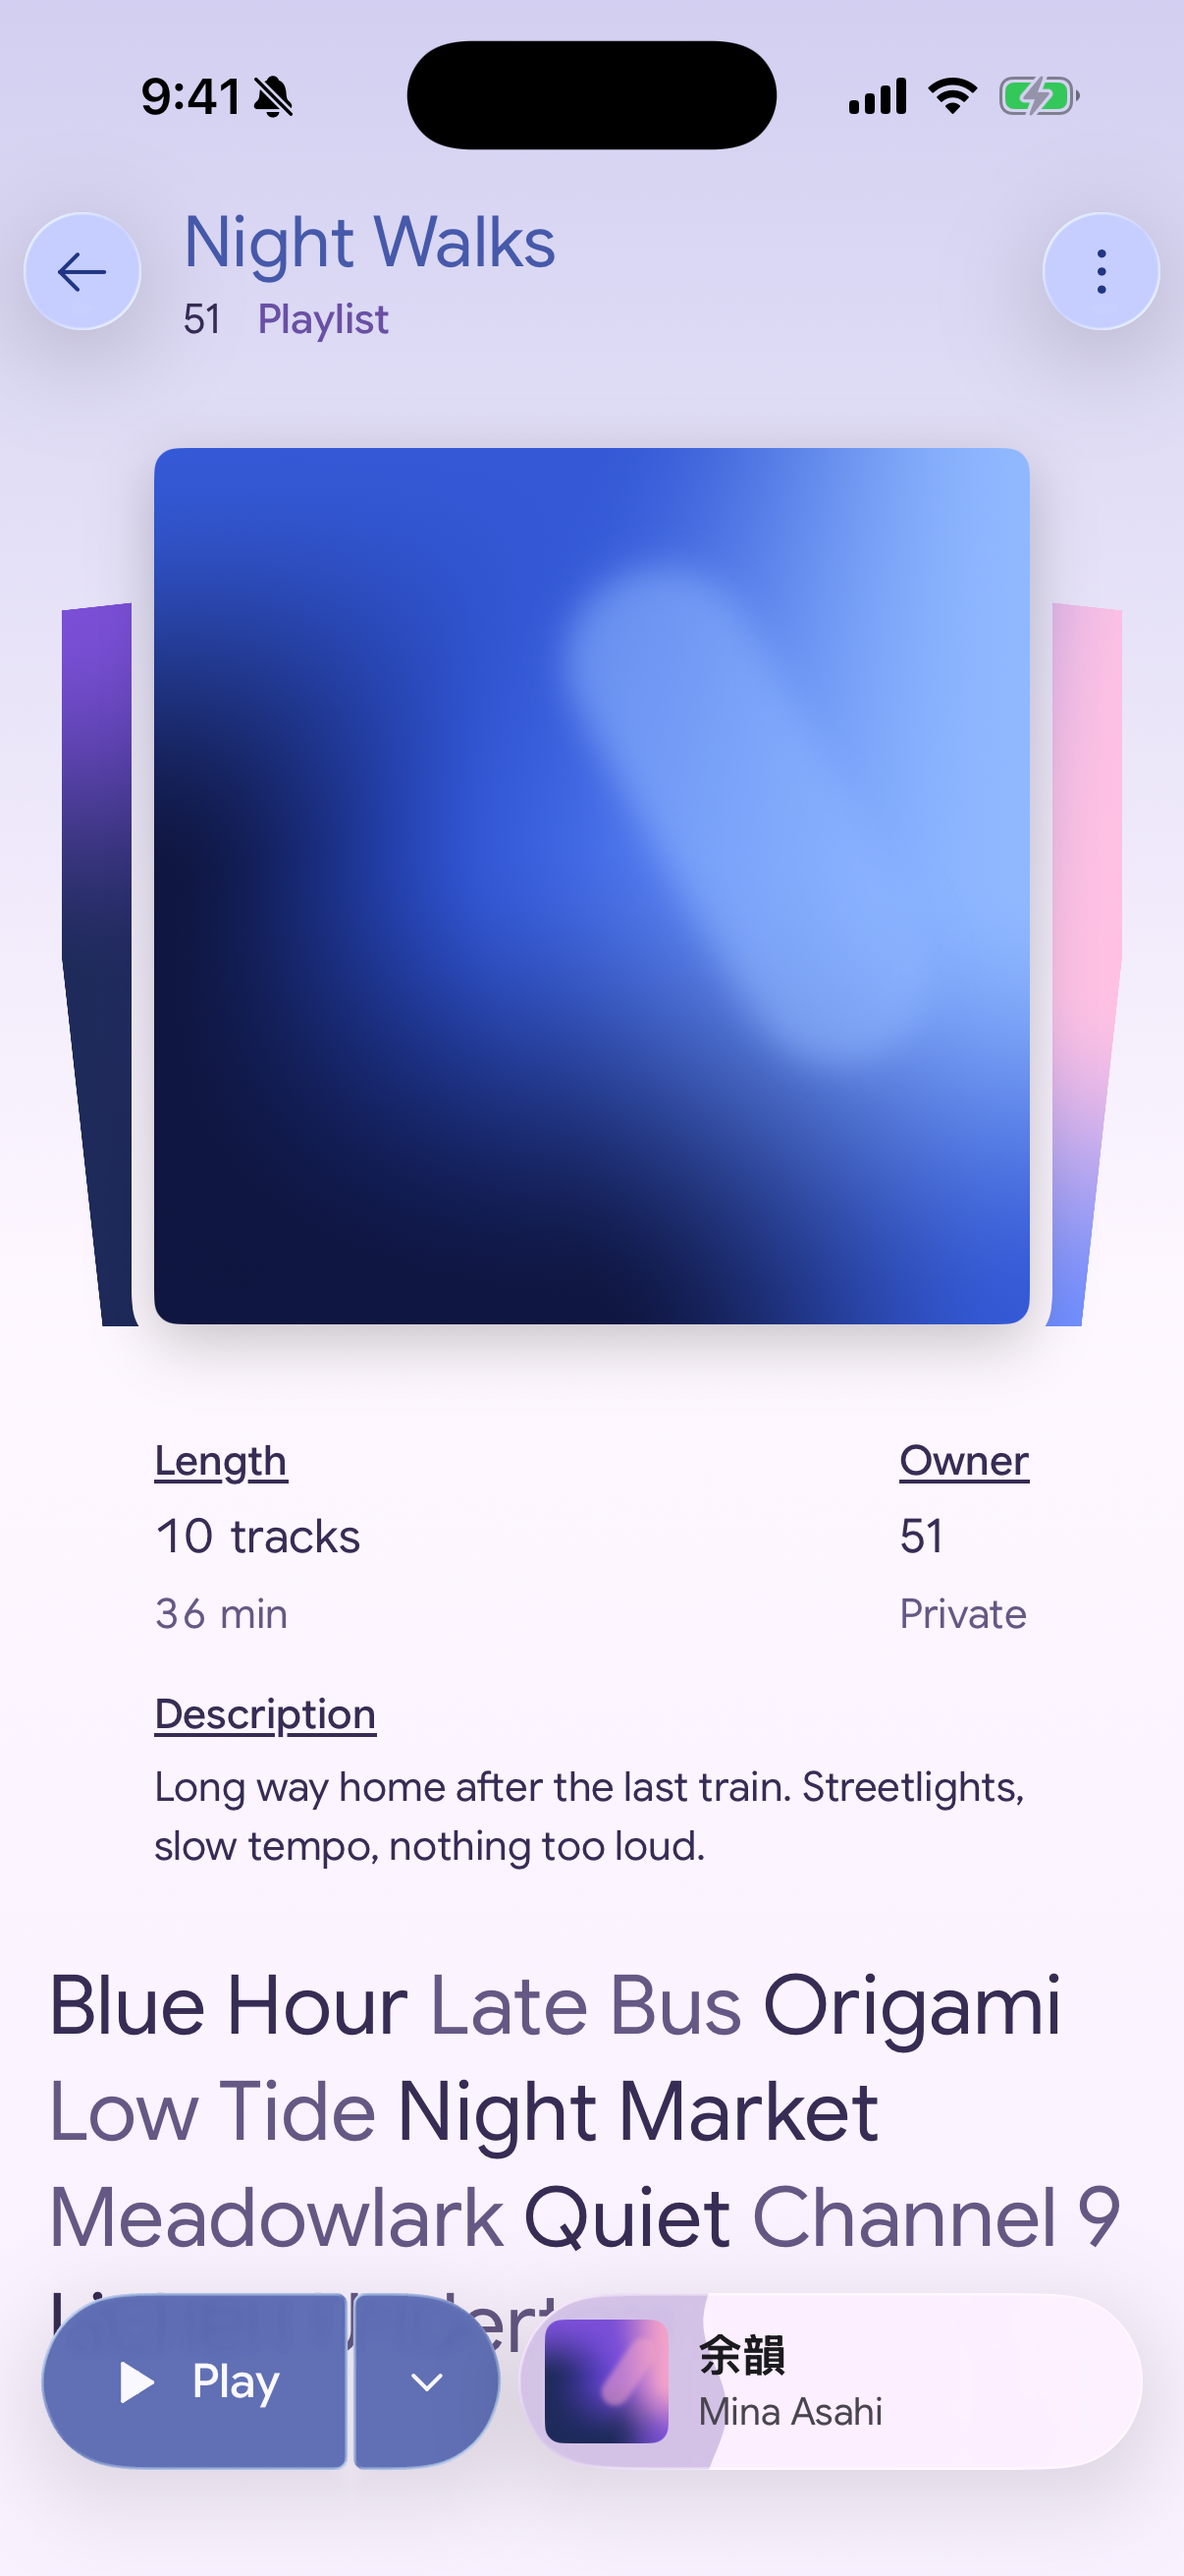
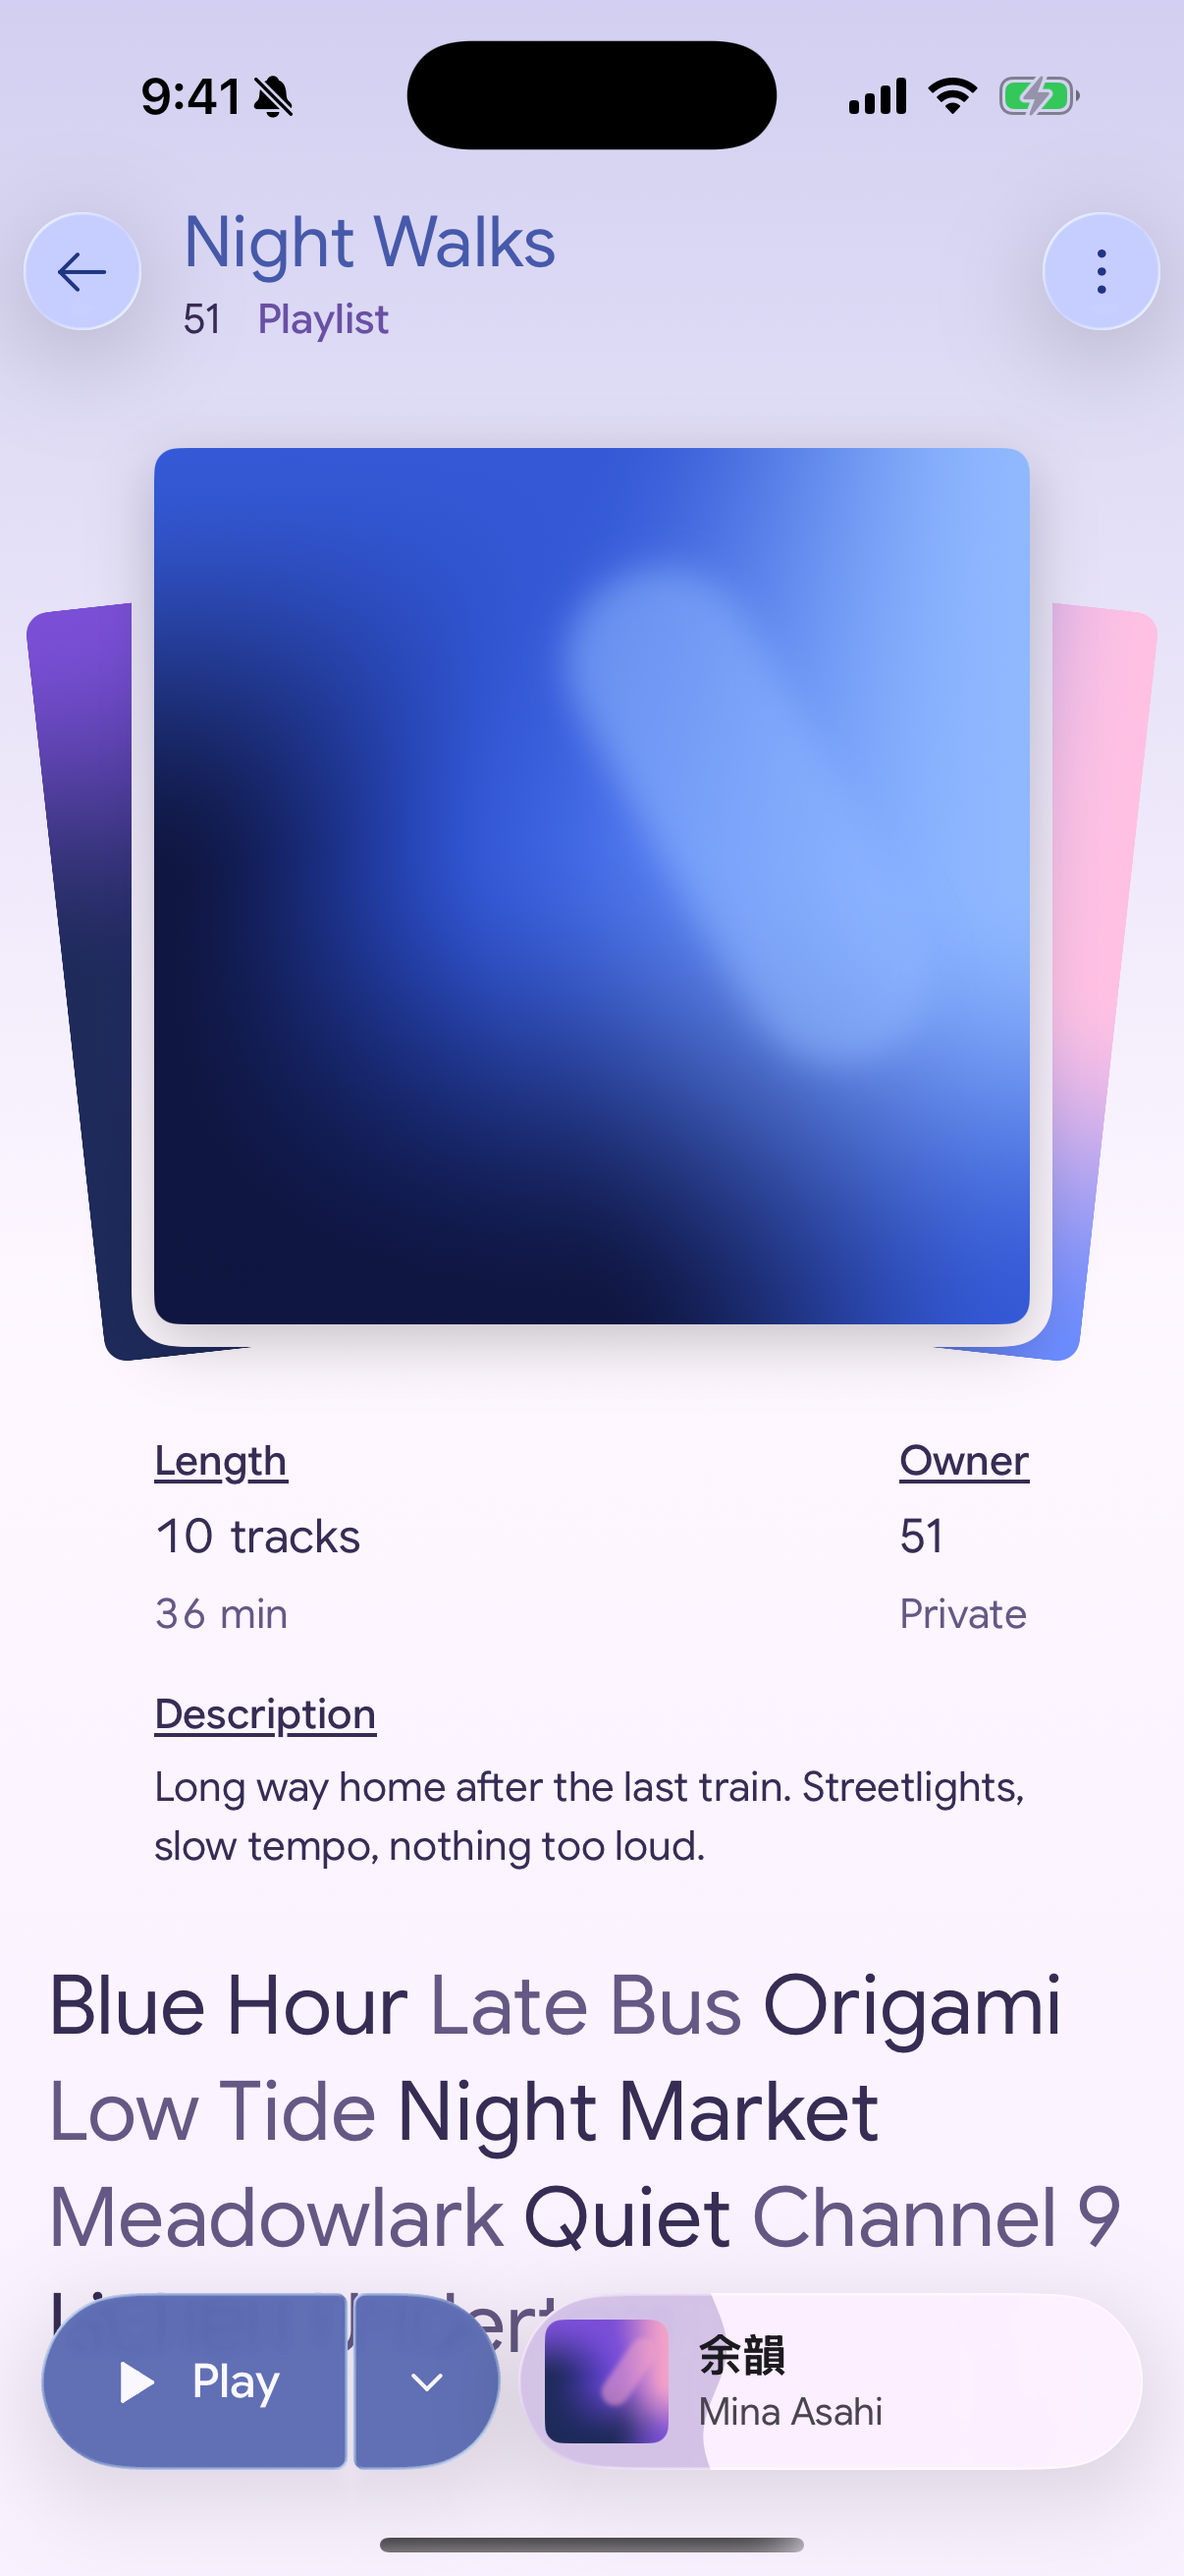
ios(playlist): flatten the sleeves before the dot dissolve so their turned corners aren't cut
The colorEffect layer only spanned the sleeves' unturned squares (even with
the shader disabled), so each sleeve's outer edge and bottom were cut flat.
A drawingGroup gives it the stage's full frame. New playlist screenshot.

Claude-Session: https://claude.ai/code/session_01MmkpKmJqR3L3CRvZWV8vTs

diff --git a/iosApp/Yoin/Album/AlbumDetailView.swift b/iosApp/Yoin/Album/AlbumDetailView.swift
@@ -1071,6 +1071,9 @@ struct AlbumDetailView: View {
                 }
             }
             .frame(width: w, height: height, alignment: .topLeading)
+            // Flattened to the stage first: the dots' layer otherwise spans only
+            // the sleeves' unturned squares and cuts their turned corners.
+            .drawingGroup()
             .dotDissolve(reduceMotion ? 0 : leaving)
             .opacity(reduceMotion ? 1 - smooth(p, 0, 0.6) : 1)
             .allowsHitTesting(false)
